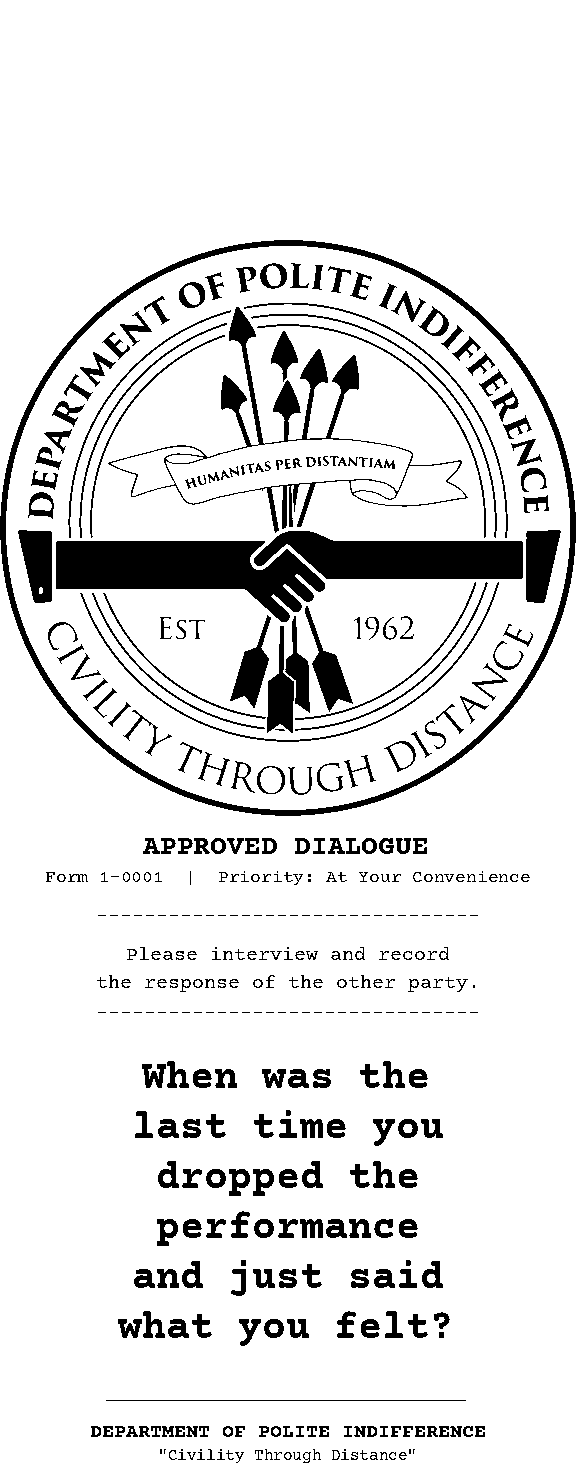
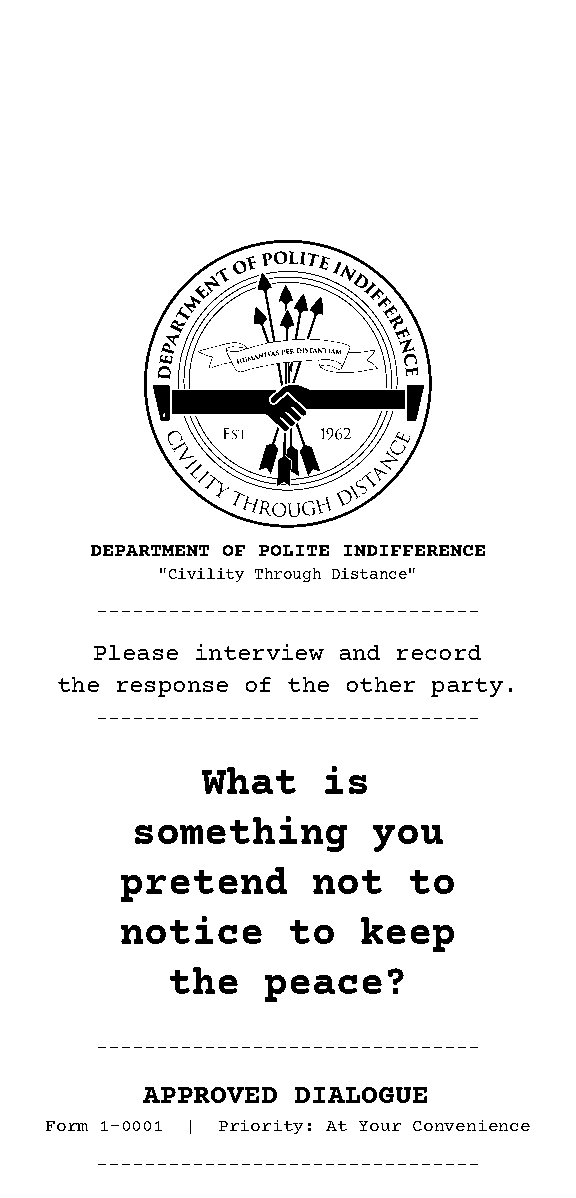
Add raster sanitizer and pre-baked small seal assets
Sanitize ESC/POS command-initiator bytes (DLE, ESC, FS, GS) from raster
data before sending to MHT-80E printers. The firmware erroneously scans
raster pixel data for command sequences, which can trigger IAP firmware
update mode. Each dangerous byte is replaced with a 1-bit-flip neighbor
(0.046% of pixels affected, visually imperceptible).

Also adds pre-baked 50% scale seal PNGs (_seal_sm.png) generated with
NEAREST resampling to avoid runtime image resizing, which previously
produced unsafe raster byte patterns via grayscale intermediates.

diff --git a/src/cold_call/printer.py b/src/cold_call/printer.py
@@ -233,10 +233,12 @@ def _compose_dispatch(prompt: str, theme: str = "apathy",
     dept_name = dept.get("name", "Bureau of Apathy")
     tagline = dept.get("tagline", "")
 
-    # Find seal image: try theme-specific, fall back to ambient_belonging
-    seal_path = ASSETS / "images" / f"{theme}_seal.png"
+    # Find seal image: prefer pre-baked small variant, fall back to full size
+    seal_path = ASSETS / "images" / f"{theme}_seal_sm.png"
     if not seal_path.exists():
-        seal_path = ASSETS / "images" / "ambient_belonging_seal.png"
+        seal_path = ASSETS / "images" / f"{theme}_seal.png"
+    if not seal_path.exists():
+        seal_path = ASSETS / "images" / "ambient_belonging_seal_sm.png"
 
     # Build sections top-to-bottom as they appear on the receipt
     sections = []
@@ -303,18 +305,36 @@ def _compose_dispatch(prompt: str, theme: str = "apathy",
     return composite
 
 
+def _sanitize_raster(data: bytes) -> bytes:
+    """Remove ESC/POS command-initiator bytes from raster data.
+
+    The MHT-80E firmware erroneously scans raster pixel data for command
+    sequences, which can trigger IAP firmware-update mode or other dangerous
+    states. We replace the four command-initiator bytes with safe neighbors
+    (1 bit flip = 1 pixel change, visually imperceptible).
+    """
+    table = bytearray(range(256))
+    table[0x10] = 0x11  # DLE — flip bit 0
+    table[0x1b] = 0x1a  # ESC — flip bit 0
+    table[0x1c] = 0x1e  # FS  — flip bit 1
+    table[0x1d] = 0x1f  # GS  — flip bit 1
+    return data.translate(bytes(table))
+
+
 def _print_raster(p: File, img: Image.Image):
     """Send a raster image as a single GS v 0 command.
 
     Builds raster data directly from the 1-bit PIL image, bypassing
     EscposImage (which needlessly round-trips through RGBA/L/invert).
     PIL mode "1": 0=black, 1=white. ESC/POS raster: 1=black, 0=white.
-    So we invert the packed bytes.
+    So we invert the packed bytes, then sanitize to remove any byte values
+    the printer firmware might misinterpret as commands.
     """
     if img.mode != "1":
         img = img.convert("1")
     raw = img.tobytes()
     raster_data = bytes(b ^ 0xFF for b in raw)
+    raster_data = _sanitize_raster(raster_data)
     width_bytes = img.width // 8
     height = img.height
 
